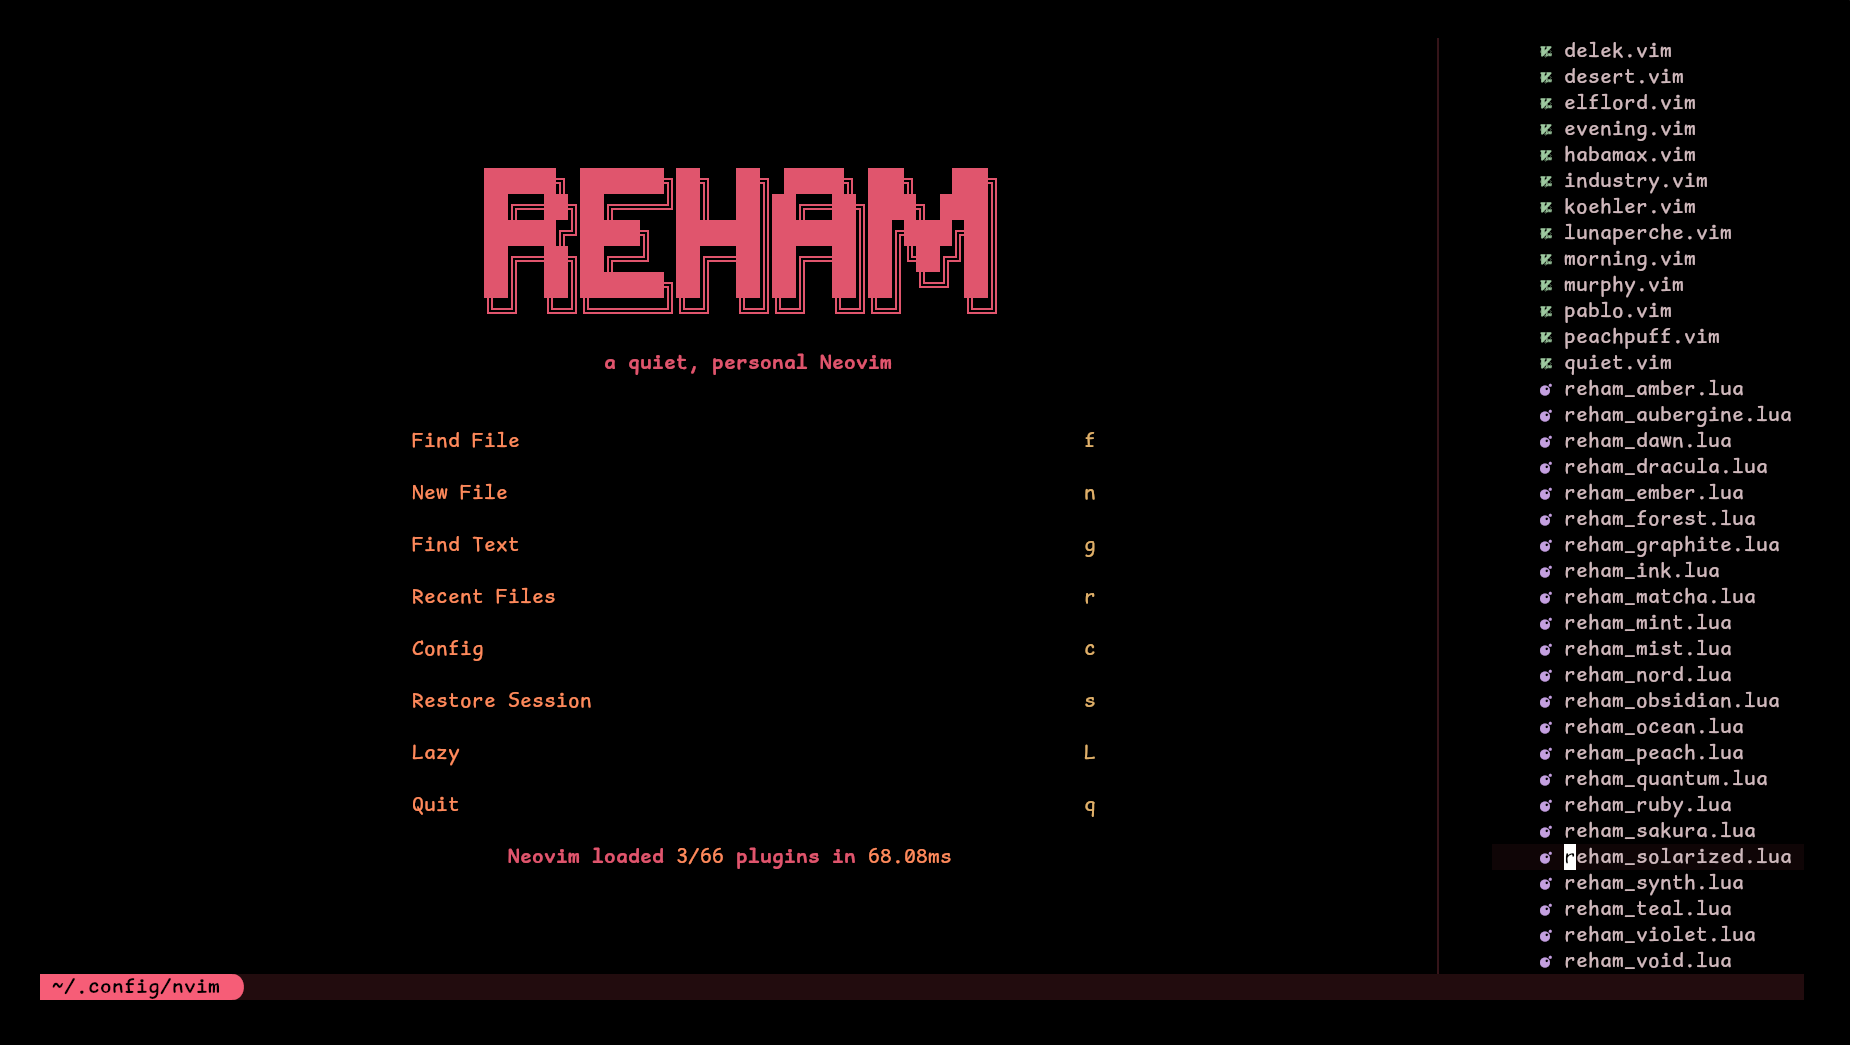
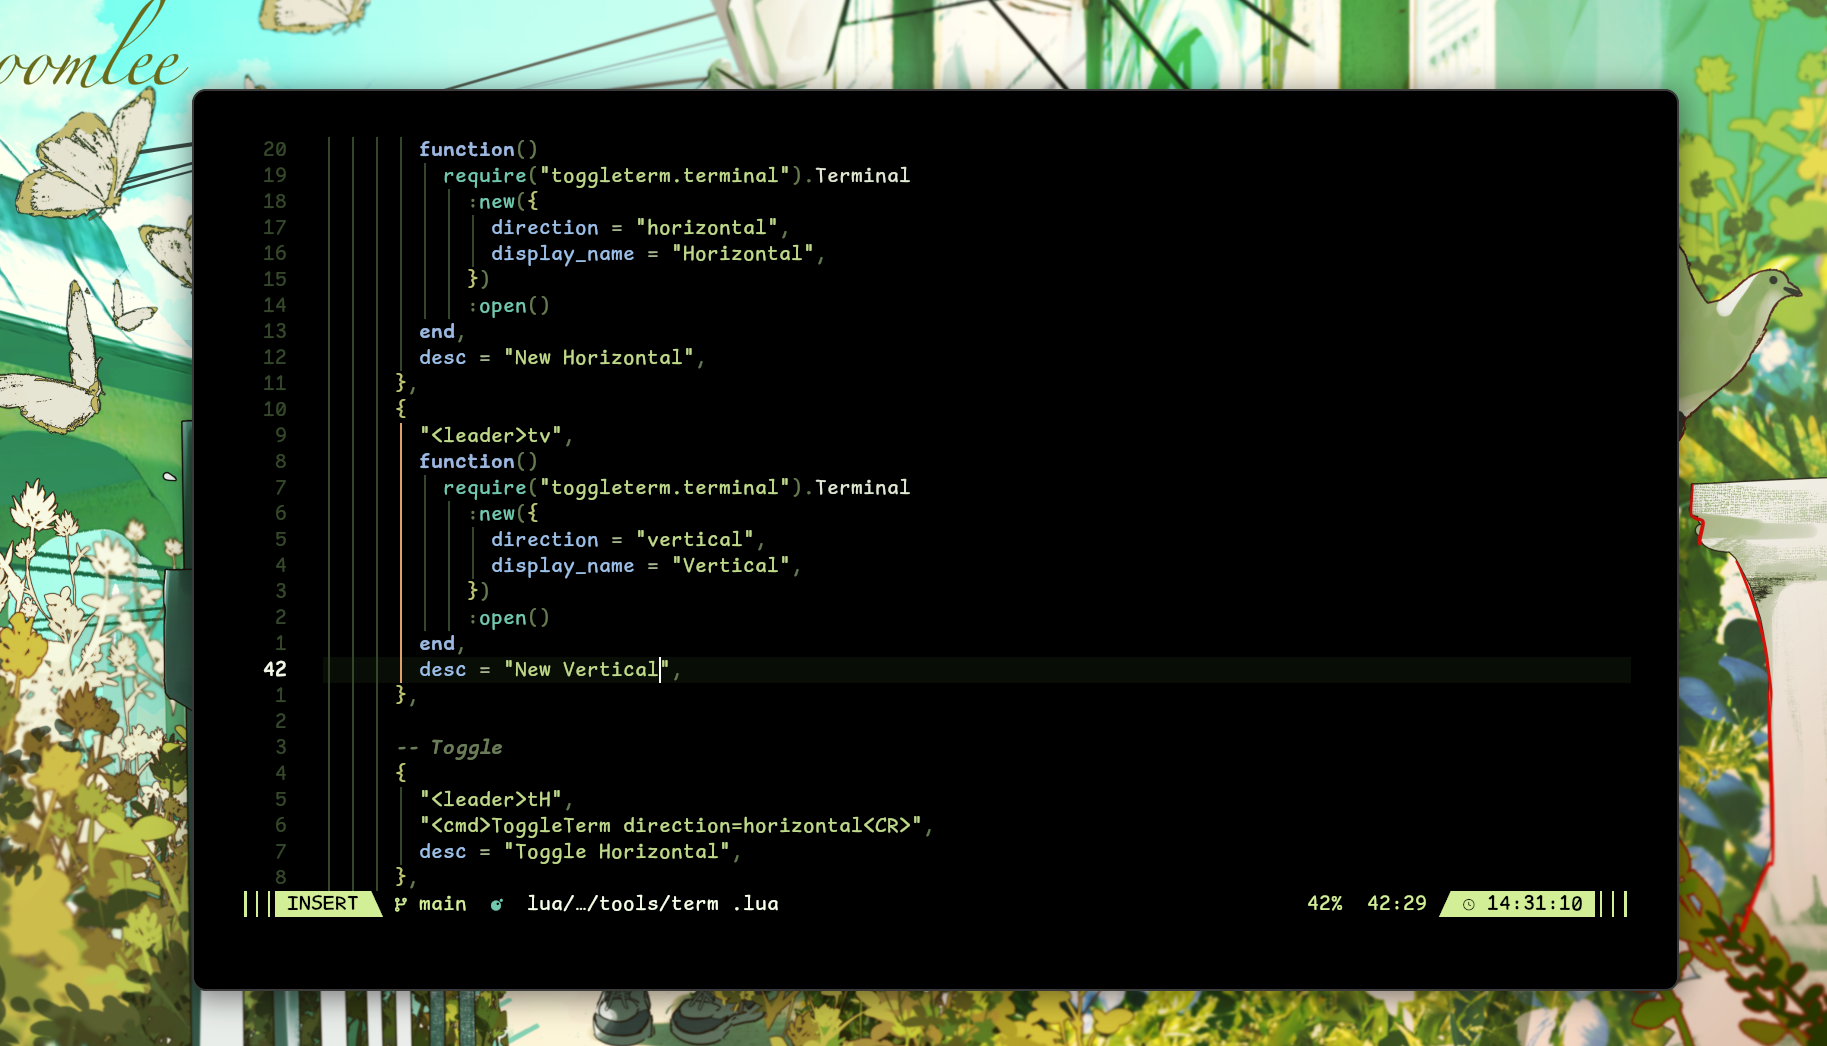
README: white squares, no divider rules, add screenshots; publish the three images

diff --git a/README.md b/README.md
@@ -2,7 +2,7 @@
 
 <br>
 
-# ⬛ RehamVim
+# ◻ RehamVim
 
 **a quiet, personal Neovim — built on [LazyVim](https://lazyvim.github.io).**
 
@@ -18,27 +18,27 @@
 
 </div>
 
----
-
 **RehamVim** is a fast, curated Neovim configuration with one hand-built
 monochrome colorscheme, deep language support, and **zero AI** — just you and
 the editor. It installs in seconds, stays out of your way, and gets out of the
 way of the rest of your system.
 
----
+## ◻ Screenshots
+
+<img src="image.png" alt="RehamVim screenshot" width="720">
+<img src="iage.png" alt="RehamVim theme" width="720">
+<img src="imge.png" alt="RehamVim layout" width="720">
 
 ## ◻ Highlights
 
 | | Feature |
 | --- | --- |
-| ▫ | **Reham theme family** — twenty-three hand-built colorschemes, nothing third-party. |
-| ▫ | **No AI** — no Copilot, no assistants, no noise. |
-| ▫ | **Deep language support** — Go, Rust, TypeScript, Python out of the box. |
-| ▫ | **Isolated install** — a dedicated `rehamvim` binary (Nix), zero clashes. |
-| ▫ | **Curated tooling** — lazygit, telescope, treesitter, dap, lualine. |
-| ▫ | **Plug & play** — clone, open, done. Lazy handles the rest. |
-
----
+| □ | **Reham theme family** — twenty-three hand-built colorschemes, nothing third-party. |
+| □ | **No AI** — no Copilot, no assistants, no noise. |
+| □ | **Deep language support** — Go, Rust, TypeScript, Python out of the box. |
+| □ | **Isolated install** — a dedicated `rehamvim` binary (Nix), zero clashes. |
+| □ | **Curated tooling** — lazygit, telescope, treesitter, dap, lualine. |
+| □ | **Plug & play** — clone, open, done. Lazy handles the rest. |
 
 ## ◻ Reham theme family
 
@@ -81,8 +81,6 @@ third-party colorscheme plugins are removed, the ones LazyVim bundles
 `colors/` as silent no-ops, and every theme picker (the `<leader>uC` menu,
 snacks' live-preview picker, Telescope) is filtered to `reham_*` only.
 `default` (Neovim's baseline) is exempt — plugins restore to it internally.
-
----
 
 ## ◻ Installation
 
@@ -136,8 +134,6 @@ nvim
 
 Lazy.nvim fetches and configures every plugin on first launch.
 
----
-
 ## ◻ Nix
 
 Ships a `flake.nix` exposing an isolated `rehamvim` binary — no interference
@@ -166,8 +162,6 @@ Or add it to your flake:
 > [!NOTE]
 > The config lives in `/nix/store`; `rehamvim` is the entry point.
 
----
-
 ## ◻ Key Bindings
 
 | Keys | Action |
@@ -183,8 +177,6 @@ Or add it to your flake:
 
 Full set at `:Telescope keymaps` or `<leader>sk`.
 
----
-
 ## ◻ Supported Languages
 
 | Language | LSP | Debug | Test | Format |
@@ -193,8 +185,6 @@ Full set at `:Telescope keymaps` or `<leader>sk`.
 | Rust           | ✅ | ✅ | ✅ | ✅ |
 | TypeScript / JS| ✅ | — | — | ✅ |
 | Python         | ✅ | — | — | ✅ |
-
----
 
 ## ◻ Layout
 
@@ -223,14 +213,10 @@ Full set at `:Telescope keymaps` or `<leader>sk`.
 └── lazy-lock.json        # pinned plugin versions
 ```
 
----
-
 ## ◻ Contributing
 
 Found a bug or want something better? Open an issue or a pull request. Keep it
 minimal, keep it fast — that's the spirit of this config.
-
----
 
 <div align="center">
 
